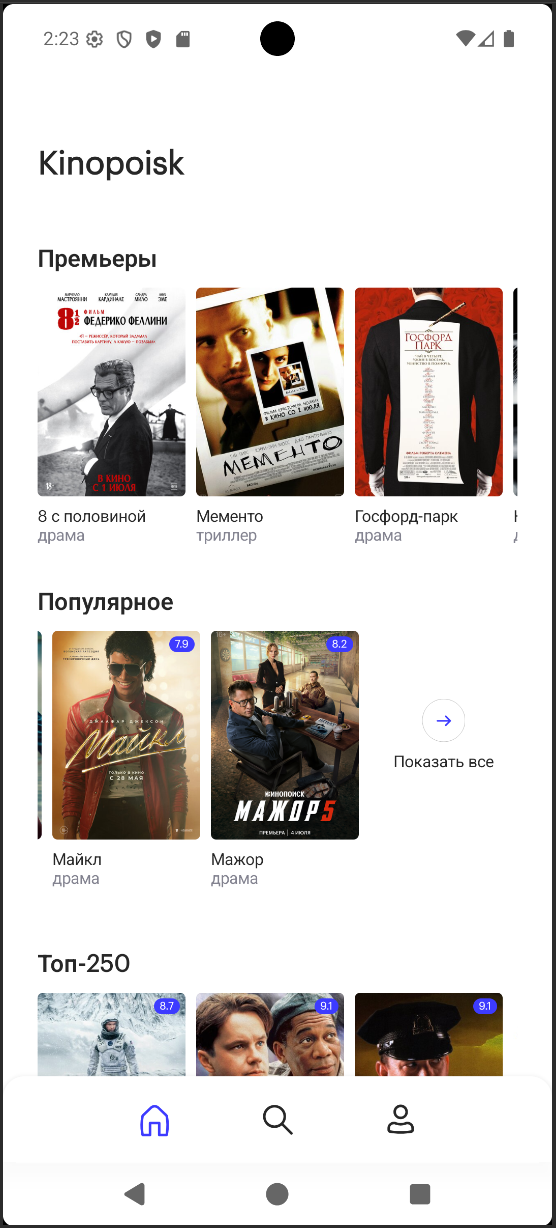
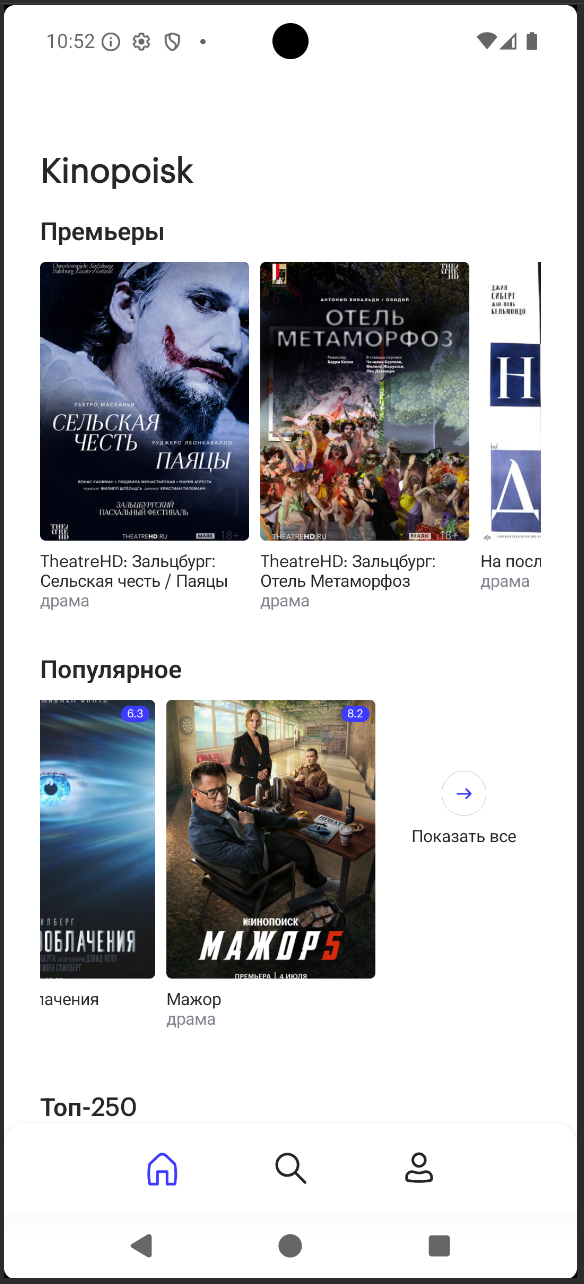
KA-14: improve HomeScreen design

diff --git a/feature/home/src/main/java/ru/ifedorov/home/HomeSectionAllScreen.kt b/feature/home/src/main/java/ru/ifedorov/home/HomeSectionAllScreen.kt
@@ -1,24 +1,30 @@
 package ru.ifedorov.home
 
 import androidx.compose.foundation.layout.Arrangement
+import androidx.compose.foundation.layout.Box
 import androidx.compose.foundation.layout.Column
 import androidx.compose.foundation.layout.PaddingValues
 import androidx.compose.foundation.layout.fillMaxSize
+import androidx.compose.foundation.layout.fillMaxWidth
+import androidx.compose.foundation.layout.height
 import androidx.compose.foundation.layout.padding
 import androidx.compose.foundation.lazy.grid.GridCells
 import androidx.compose.foundation.lazy.grid.LazyVerticalGrid
 import androidx.compose.foundation.lazy.grid.items
+import androidx.compose.material3.Icon
+import androidx.compose.material3.IconButton
 import androidx.compose.material3.MaterialTheme
 import androidx.compose.material3.Text
-import androidx.compose.material3.TextButton
 import androidx.compose.runtime.Composable
 import androidx.compose.runtime.getValue
 import androidx.compose.ui.Alignment
 import androidx.compose.ui.Modifier
+import androidx.compose.ui.res.painterResource
 import androidx.compose.ui.tooling.preview.Preview
 import androidx.compose.ui.unit.dp
 import androidx.hilt.lifecycle.viewmodel.compose.hiltViewModel
 import androidx.lifecycle.compose.collectAsStateWithLifecycle
+import ru.ifedorov.designsystem.R
 import ru.ifedorov.designsystem.component.EmptyState
 import ru.ifedorov.designsystem.component.ErrorState
 import ru.ifedorov.designsystem.component.LoadingState
@@ -26,13 +32,14 @@ import ru.ifedorov.designsystem.theme.KinopoiskAppTheme
 import ru.ifedorov.domain.model.FilmCollectionType
 import ru.ifedorov.home.preview.PreviewHomeSection
 
-private const val GRID_SIZE = 2
+private const val HOME_SECTION_ALL_GRID_COLUMN_COUNT = 2
 private val HomeSectionAllHorizontalPadding = 26.dp
-private val HomeSectionAllTopPadding = 32.dp
+private val HomeSectionAllTopPadding = 24.dp
 private val HomeSectionAllBottomPadding = 32.dp
-private val HomeSectionAllHeaderSpacing = 24.dp
-private val HomeSectionAllGridHorizontalSpacing = 8.dp
-private val HomeSectionAllGridVerticalSpacing = 24.dp
+private val HomeSectionAllTopBarHeight = 56.dp
+private val HomeSectionAllContentTopSpacing = 32.dp
+private val HomeSectionAllGridHorizontalSpacing = 2.dp
+private val HomeSectionAllGridVerticalSpacing = 16.dp
 
 @Composable
 fun HomeSectionAllRoute(
@@ -67,13 +74,10 @@ internal fun HomeSectionAllScreen(
             ),
         horizontalAlignment = Alignment.Start
     ) {
-        TextButton(onClick = onBackClick) {
-            Text(
-                text = "Назад",
-                color = MaterialTheme.colorScheme.primary,
-                style = MaterialTheme.typography.bodyMedium
-            )
-        }
+        HomeSectionAllTopBar(
+            title = sectionState.titleOrDefault(),
+            onBackClick = onBackClick
+        )
 
         when (sectionState) {
             null -> ErrorState(
@@ -82,7 +86,7 @@ internal fun HomeSectionAllScreen(
                 onActionClick = onBackClick
             )
 
-            is HomeSectionState.Loading -> LoadingState(message = "Загружаем секцию")
+            is HomeSectionState.Loading -> LoadingState()
             is HomeSectionState.Empty -> EmptyState(title = "В этой секции пока пусто")
             is HomeSectionState.Error -> ErrorState(
                 title = "Не удалось загрузить ${sectionState.title}",
@@ -103,29 +107,57 @@ private fun HomeSectionAllContent(
     section: HomeSectionUiModel,
     modifier: Modifier = Modifier
 ) {
-    Text(
-        text = section.title,
-        color = MaterialTheme.colorScheme.onBackground,
-        style = MaterialTheme.typography.headlineMedium,
-        modifier = Modifier.padding(
-            top = HomeSectionAllHeaderSpacing,
-            bottom = HomeSectionAllHeaderSpacing
-        )
-    )
-
     LazyVerticalGrid(
-        columns = GridCells.Fixed(GRID_SIZE),
+        columns = GridCells.Fixed(HOME_SECTION_ALL_GRID_COLUMN_COUNT),
         horizontalArrangement = Arrangement.spacedBy(HomeSectionAllGridHorizontalSpacing),
         verticalArrangement = Arrangement.spacedBy(HomeSectionAllGridVerticalSpacing),
-        contentPadding = PaddingValues(bottom = HomeSectionAllBottomPadding),
+        contentPadding = PaddingValues(
+            top = HomeSectionAllContentTopSpacing,
+            bottom = HomeSectionAllBottomPadding
+        ),
         modifier = modifier
     ) {
         items(
             items = section.films,
             key = { film -> film.kinopoiskId }
         ) { film ->
-            HomeMovieCard(film = film)
+            Box(
+                modifier = Modifier.fillMaxWidth(),
+                contentAlignment = Alignment.TopCenter
+            ) {
+                HomeMovieCard(film = film)
+            }
         }
+    }
+}
+
+@Composable
+private fun HomeSectionAllTopBar(
+    title: String,
+    onBackClick: () -> Unit
+) {
+    Box(
+        modifier = Modifier
+            .fillMaxWidth()
+            .height(HomeSectionAllTopBarHeight),
+        contentAlignment = Alignment.Center
+    ) {
+        IconButton(
+            onClick = onBackClick,
+            modifier = Modifier.align(Alignment.CenterStart)
+        ) {
+            Icon(
+                painter = painterResource(R.drawable.ic_arrow_back),
+                contentDescription = "Назад",
+                tint = MaterialTheme.colorScheme.onBackground
+            )
+        }
+
+        Text(
+            text = title,
+            color = MaterialTheme.colorScheme.onBackground,
+            style = MaterialTheme.typography.titleLarge
+        )
     }
 }
 
@@ -151,6 +183,14 @@ private fun String.toSectionTypeOrNull(): FilmCollectionType? = when (this) {
     HOME_SECTION_TITLE_TOP_250 -> FilmCollectionType.TOP_250
     HOME_SECTION_TITLE_SERIES -> FilmCollectionType.SERIES
     else -> null
+}
+
+private fun HomeSectionState?.titleOrDefault(): String = when (this) {
+    is HomeSectionState.Content -> section.title
+    is HomeSectionState.Empty -> title
+    is HomeSectionState.Error -> title
+    is HomeSectionState.Loading -> title
+    null -> "Все"
 }
 
 @Preview(showBackground = true)

diff --git a/core/designsystem/src/main/java/ru/ifedorov/designsystem/component/MovieCard.kt b/core/designsystem/src/main/java/ru/ifedorov/designsystem/component/MovieCard.kt
@@ -8,6 +8,7 @@ import androidx.compose.foundation.layout.Box
 import androidx.compose.foundation.layout.BoxScope
 import androidx.compose.foundation.layout.Column
 import androidx.compose.foundation.layout.fillMaxSize
+import androidx.compose.foundation.layout.height
 import androidx.compose.foundation.layout.padding
 import androidx.compose.foundation.layout.size
 import androidx.compose.foundation.layout.width
@@ -29,10 +30,12 @@ import androidx.compose.ui.unit.sp
 import ru.ifedorov.designsystem.R
 import ru.ifedorov.designsystem.theme.KinopoiskAppTheme
 
-private val MovieCardWidth = 111.dp
-private val MovieCardPosterHeight = 156.dp
+private val MovieCardWidth = 150.dp
+private val MovieCardHeight = 250.dp
+private val MovieCardPosterHeight = 200.dp
 private val MovieCardPosterCornerRadius = 4.dp
 private val MovieCardContentSpacing = 8.dp
+private val MovieCardTextHeight = 60.dp
 private val MovieCardRatingPadding = 4.dp
 private val MovieCardWatchedIconPadding = 8.dp
 private val MovieCardWatchedIconSize = 18.dp
@@ -62,7 +65,9 @@ fun MovieCard(
     }
 
     Column(
-        modifier = cardModifier.width(MovieCardWidth),
+        modifier = cardModifier
+            .width(MovieCardWidth)
+            .height(MovieCardHeight),
         verticalArrangement = Arrangement.spacedBy(MovieCardContentSpacing)
     ) {
         MoviePoster(
@@ -73,7 +78,8 @@ fun MovieCard(
 
         MovieCardTitle(
             title = title,
-            genre = genre
+            genre = genre,
+            modifier = Modifier.height(MovieCardTextHeight)
         )
     }
 }
@@ -181,9 +187,10 @@ private fun MovieRatingBadge(
 @Composable
 private fun MovieCardTitle(
     title: String,
-    genre: String
+    genre: String,
+    modifier: Modifier = Modifier
 ) {
-    Column {
+    Column(modifier = modifier) {
         Text(
             text = title,
             color = MaterialTheme.colorScheme.onBackground,

diff --git a/feature/home/src/main/java/ru/ifedorov/home/preview/HomePreviewData.kt b/feature/home/src/main/java/ru/ifedorov/home/preview/HomePreviewData.kt
@@ -3,7 +3,12 @@ package ru.ifedorov.home.preview
 import ru.ifedorov.domain.model.Film
 import ru.ifedorov.domain.model.FilmCollectionType
 import ru.ifedorov.domain.model.FilmType
+import ru.ifedorov.home.HOME_SECTION_TITLE_POPULAR
+import ru.ifedorov.home.HOME_SECTION_TITLE_PREMIERES
+import ru.ifedorov.home.HOME_SECTION_TITLE_TOP_250
+import ru.ifedorov.home.HomeSectionState
 import ru.ifedorov.home.HomeSectionUiModel
+import ru.ifedorov.home.HomeUiState
 
 private const val PREVIEW_HOME_FILMS_COUNT = 8
 private const val PREVIEW_WATCHED_FILM_INDEX = 1
@@ -28,4 +33,26 @@ internal val PreviewHomeSection = HomeSectionUiModel(
     type = FilmCollectionType.SERIES,
     title = "Сериалы",
     films = PreviewHomeFilms
+)
+
+internal val PreviewHomeUiState = HomeUiState(
+    premieres = HomeSectionState.Content(
+        section = PreviewHomeSection.copy(
+            type = FilmCollectionType.PREMIERES,
+            title = HOME_SECTION_TITLE_PREMIERES
+        )
+    ),
+    popular = HomeSectionState.Content(
+        section = PreviewHomeSection.copy(
+            type = FilmCollectionType.POPULAR,
+            title = HOME_SECTION_TITLE_POPULAR
+        )
+    ),
+    top250 = HomeSectionState.Content(
+        section = PreviewHomeSection.copy(
+            type = FilmCollectionType.TOP_250,
+            title = HOME_SECTION_TITLE_TOP_250
+        )
+    ),
+    series = HomeSectionState.Content(section = PreviewHomeSection)
 )

diff --git a/feature/home/src/main/java/ru/ifedorov/home/HomeScreen.kt b/feature/home/src/main/java/ru/ifedorov/home/HomeScreen.kt
@@ -14,6 +14,7 @@ import androidx.compose.runtime.Composable
 import androidx.compose.runtime.getValue
 import androidx.compose.ui.Alignment
 import androidx.compose.ui.Modifier
+import androidx.compose.ui.tooling.preview.Preview
 import androidx.compose.ui.unit.dp
 import androidx.hilt.lifecycle.viewmodel.compose.hiltViewModel
 import androidx.lifecycle.compose.collectAsStateWithLifecycle
@@ -21,11 +22,13 @@ import ru.ifedorov.designsystem.component.EmptyState
 import ru.ifedorov.designsystem.component.ErrorState
 import ru.ifedorov.designsystem.component.LoadingState
 import ru.ifedorov.designsystem.component.SectionHeader
+import ru.ifedorov.designsystem.theme.KinopoiskAppTheme
+import ru.ifedorov.home.preview.PreviewHomeUiState
 
 private val HomeHorizontalPadding = 26.dp
 private val HomeTopPadding = 56.dp
 private val HomeBottomPadding = 32.dp
-private val HomeHeaderBottomSpacing = 48.dp
+private val HomeHeaderBottomSpacing = 20.dp
 private val HomeSectionSpacing = 32.dp
 private val HomeSectionStateTopPadding = 12.dp
 
@@ -152,4 +155,16 @@ private fun HomeSectionContent(
         section = section,
         onShowAllClick = onShowAllClick
     )
+}
+
+@Preview(showBackground = true)
+@Composable
+private fun HomeScreenPreview() {
+    KinopoiskAppTheme {
+        HomeScreen(
+            uiState = PreviewHomeUiState,
+            onRetryClick = {},
+            onShowAllClick = {}
+        )
+    }
 }

diff --git a/README.md b/README.md
@@ -15,13 +15,16 @@
 
 
 <p>
-  <img src="docs/screenshots/onb1.png" width="180" alt="Onboarding 1" />
-  <img src="docs/screenshots/onb2.png" width="180" alt="Onboarding 2" />
-  <img src="docs/screenshots/onb3.png" width="180" alt="Onboarding 3" />
-  <img src="docs/screenshots/home1.png" width="180" alt="Home screen" />
+  <img src="docs/screenshots/onb1.png" width="220" alt="Onboarding 1" />
+  <img src="docs/screenshots/onb2.png" width="220" alt="Onboarding 2" />
+  <img src="docs/screenshots/onb3.png" width="220" alt="Onboarding 3" />
 </p>
 
-
+<p>
+  <img src="docs/screenshots/home1.png" width="220" alt="Home screen" />
+  <img src="docs/screenshots/home2.png" width="220" alt="Home screen all" />
+  <img src="docs/screenshots/home3.png" width="220" alt="Home screen all" />
+</p>
 
 
 ### 1. Как будет устроена модульность
